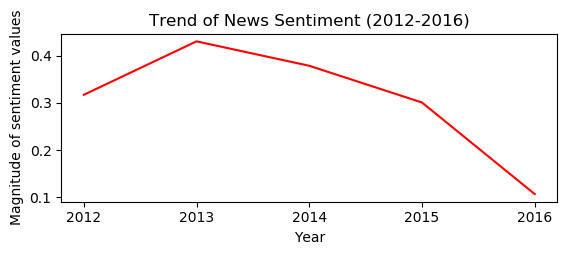
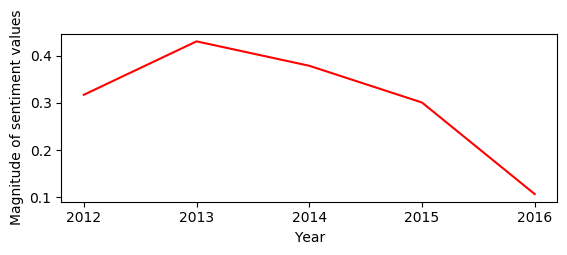
CrossValidation Performance

Changed region(s): [[0.2698, 0.0549, 0.8395, 0.1098]]

diff --git a/src/sentiment_analysis_news_articles.py b/src/sentiment_analysis_news_articles.py
@@ -16,14 +16,26 @@ import matplotlib.pyplot as plt
 import pandas as pd
 from nltk.sentiment.vader import SentimentIntensityAnalyzer
 from numpy import log
-from scipy.stats import spearmanr
+from nltk.corpus import stopwords
+from nltk.tokenize import word_tokenize
 from statsmodels.tsa.stattools import adfuller
 from wordcloud import WordCloud, STOPWORDS
+
+stop = ['oil', 'Oil', 'price', 'said', 'Related', 'Top', 'Reads', 'new', 'one', 'well', 'Oilprice.com', 'according', 'say',
+        'first', 'many', 'need', 'see', 'made', 'make', 'much', 'even', 'still', 'two']
+
+stop_words = set(stopwords.words('english'))
+stop_words.update(stop)
 
 
 def eliminate_url(input1):
     input_text = input1.encode('ascii', 'ignore').decode('ascii')
     input_text = re.sub(r'http\S+', '', input_text)
+    word_tokens = word_tokenize(input_text)
+    word_tokens = list(filter(lambda x: x not in stop, word_tokens))
+    print(word_tokens)
+    input_text = ' '.join(filter(lambda w: w not in stop_words, word_tokens))
+
     return input_text
 
 
@@ -64,7 +76,7 @@ def news_article_sentiment(data_oil, path="ScrapedNewsArticles/oil_news.json"):
     ax.set_xticks([2012, 2013, 2014, 2015, 2016])
     plt.ylabel("Magnitude of sentiment values")
     plt.xlabel("Year")
-    plt.title("Trend of News Sentiment (2012-2016)")
+    #plt.title("Trend of News Sentiment (2012-2016)")
     plt.savefig('Results/SentimentOfCrudeOilNews.png', bbox_inches='tight')
 
     # Augmented Dickey-Fuller Test
@@ -109,7 +121,7 @@ def word_cloud_generator(data_frame):
     data_frame['date'] = pd.to_datetime(data_frame['date'])
     year_2016 = data_frame[data_frame.date.dt.year.eq(2016)]
     text = ""
-    for article in year_2016['article']:
+    for article in data_frame['article']:
         text += eliminate_url(article)
     show_word_cloud(text)
 
@@ -120,17 +132,19 @@ def show_word_cloud(data):
     :param data: collection of reviews
     :return:
     """
-    stopwords = STOPWORDS
+    stop_w = set(STOPWORDS)
     word_cloud = WordCloud(
         background_color='white',
-        stopwords=stopwords,
-        max_words=200,
+        stopwords=stop_w,
+        max_words=60,
         max_font_size=40,
         scale=3,
         random_state=1
     ).generate(str(data))
     plt.axis('off')
     plt.imshow(word_cloud)
+
+    plt.savefig('Results/WordCloud.png', bbox_inches='tight')
     plt.show()
 
 

diff --git a/src/oil_price_trend_specific.py b/src/oil_price_trend_specific.py
@@ -10,6 +10,9 @@ Created on Thu Jan 30 2020
 import seaborn as sea
 import matplotlib.pyplot as plt
 from fbprophet import Prophet
+from fbprophet.diagnostics import cross_validation
+from fbprophet.diagnostics import performance_metrics
+from fbprophet.plot import plot_cross_validation_metric
 import pandas as pd
 import copy
 import math
@@ -46,7 +49,7 @@ def prediction(data):
 
     fb_forecasting.fit(data_frame)
 
-    future = fb_forecasting.make_future_dataframe(periods=90)
+    future = fb_forecasting.make_future_dataframe(periods=250)
 
     forecast = fb_forecasting.predict(future)
     fb_forecasting.plot_components(forecast)
@@ -83,3 +86,23 @@ def prediction(data):
     print("Mean Absolute Error = ", mean_abs_error)
     print("Mean Squared Error = ", mean_square_error)
     print("Root Mean Squared Error = ", root_mean_square_error)
+
+    # Prophet Diagnostics
+
+    cross_validation_forecast = cross_validation(fb_forecasting, initial='1259 days', period='180 days',
+                                                 horizon='365 days')
+
+    cutoff = cross_validation_forecast['cutoff'].unique()[0]
+
+    cross_validation_forecast = cross_validation_forecast[cross_validation_forecast['cutoff'].values == cutoff]
+
+    performance = performance_metrics(cross_validation_forecast)
+
+    print(performance.head())
+
+    plot_cross_validation_metric(cross_validation_forecast, metric='mape')
+    plt.title("Cross Validation Performance Metrics")
+    plt.savefig('Results/ProphetDiagnostics.png', bbox_inches='tight')
+    plt.show()
+
+
